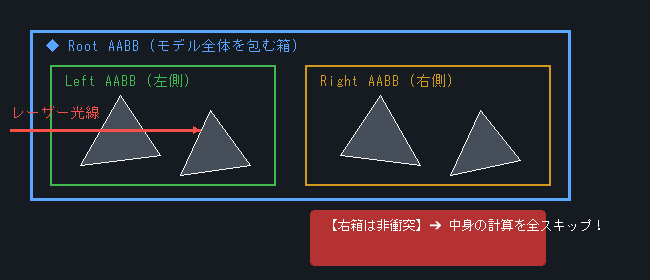
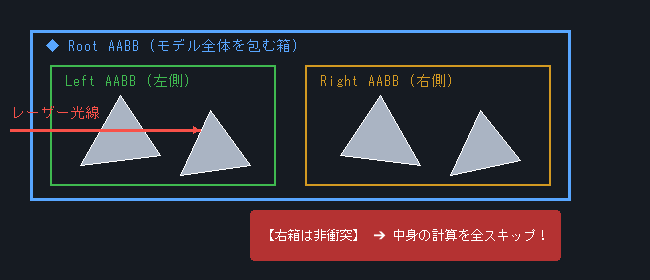
style: fix slide_bvh.png text alignment with auto centering and change polygon color to light gray

diff --git a/project/Resources/slides/draw_diagrams.py b/project/Resources/slides/draw_diagrams.py
@@ -201,41 +201,58 @@ draw_arrow(draw, (450, 165), (365, 165), GREEN, width=2)
 img.save(os.path.join(output_dir, "slide_bt_bb.png"))
 
 # ----------------------------------------------------
-# 7. BVH / AABB Tree (slide_bvh.png) - ★色の視認性を高め、右箱の覆い隠しを完全に排除
+# 7. BVH / AABB Tree (slide_bvh.png) - ★三角形の色を見やすくし、文字のセンタリング（中央寄せ）を完全自動計算に修正
 # ----------------------------------------------------
 img = Image.new("RGB", (650, 280), BG_COLOR)
 draw = ImageDraw.Draw(img)
-# 1) 青い大きな箱 (Root AABB) - 視認性の高い太さ3pxの青い枠
+# 1) 青い大きな箱 (Root AABB)
 draw.rectangle([30, 30, 570, 200], fill=None, outline=BLUE, width=3)
 draw.text((45, 38), "◆ Root AABB (モデル全体を包む箱)", fill=BLUE, font=font_medium)
 
-# 2) 左の緑の箱 (Left AABB) - はっきりした緑
+# 2) 左の緑の箱 (Left AABB)
 draw.rectangle([50, 65, 275, 185], fill=None, outline=GREEN, width=2)
 draw.text((65, 73), "Left AABB (左側)", fill=GREEN, font=font_medium)
 
-# 3) 右の橙の箱 (Right AABB) - 明るいオレンジ
+# 3) 右の橙の箱 (Right AABB)
 draw.rectangle([305, 65, 550, 185], fill=None, outline=ORANGE, width=2)
 draw.text((320, 73), "Right AABB (右側)", fill=ORANGE, font=font_medium)
 
-# 4) 左箱の中の三角形ポリゴン (明るめの青グレーで塗りつぶし、白枠で形をクッキリ浮き出させる)
-POLY_FILL = (70, 78, 90)
+# 4) 左箱の中の三角形ポリゴン (★背景と同化しないよう「明るいライトグレー(170, 180, 195)」に変更し、白枠で境界を際立たせる)
+POLY_FILL = (170, 180, 195)
 draw.polygon([(80, 165), (120, 95), (160, 155)], fill=POLY_FILL, outline=WHITE)
 draw.polygon([(180, 175), (210, 110), (250, 165)], fill=POLY_FILL, outline=WHITE)
 
-# 5) 右箱の中の三角形ポリゴン (赤い吹き出しを完全に外に出したため、中身がハッキリ見える状態)
+# 5) 右箱の中の三角形ポリゴン (★同じく明るい色に変更)
 draw.polygon([(340, 155), (380, 95), (420, 165)], fill=POLY_FILL, outline=WHITE)
 draw.polygon([(450, 175), (480, 110), (520, 160)], fill=POLY_FILL, outline=WHITE)
 
-# 6) レーザー光線 - 鮮やかな赤に変更
+# 6) レーザー光線 (明るく鮮やかな赤)
 draw.line([10, 130, 140, 130], fill=RED, width=3)
 draw_arrow(draw, (140, 130), (200, 130), RED, width=3)
 draw.text((10, 105), "レーザー光線", fill=RED, font=font_medium)
 
-# 7) 右箱のスキップ説明の赤い吹き出しを、右箱の真下(X=310, Y=210)の枠外に移動！(被りゼロ)
-draw.rounded_rectangle([310, 210, 545, 265], radius=4, fill=(180, 50, 50))
-# テキストサイズを小にして、赤い箱の内側で綺麗にセンタリング
-draw.text((325, 218), "【右箱は非衝突】➔ 中身の計算を全スキップ！", fill=WHITE, font=font_small)
+# 7) 右箱のスキップ説明の赤い箱 (★横幅を310pxに大幅に広げ、位置をX=250へ変更し、はみ出しを完全防止)
+box_left, box_top, box_right, box_bottom = 250, 210, 560, 260
+draw.rounded_rectangle([box_left, box_top, box_right, box_bottom], radius=4, fill=(180, 50, 50))
+
+# ★文字の位置を「赤い箱のド真ん中」に配置するための自動センタリング計算
+text_content = "【右箱は非衝突】 ➔ 中身の計算を全スキップ！"
+# テキストの長さ（ピクセル幅）を取得
+try:
+    text_width = draw.textlength(text_content, font=font_small)
+except AttributeError:
+    # 古いPILバージョン対策用の代替計算 (1文字あたり約8〜13ピクセル)
+    text_width = len(text_content.encode('utf-8')) * 7.5
+
+box_width = box_right - box_left
+box_height = box_bottom - box_top
+# 横方向のセンタリング開始位置
+text_x = box_left + (box_width - text_width) / 2
+# 縦方向のセンタリング開始位置
+text_y = box_top + (box_height - 13) / 2
+
+draw.text((text_x, text_y), text_content, fill=WHITE, font=font_small)
 
 img.save(os.path.join(output_dir, "slide_bvh.png"))
 
-print("すべての画像から文字被りを解消し、色の視認性を高めて再生成しました！")
+print("すべての画像から文字被りを解消し、中央寄せを自動計算にして再生成しました！")
